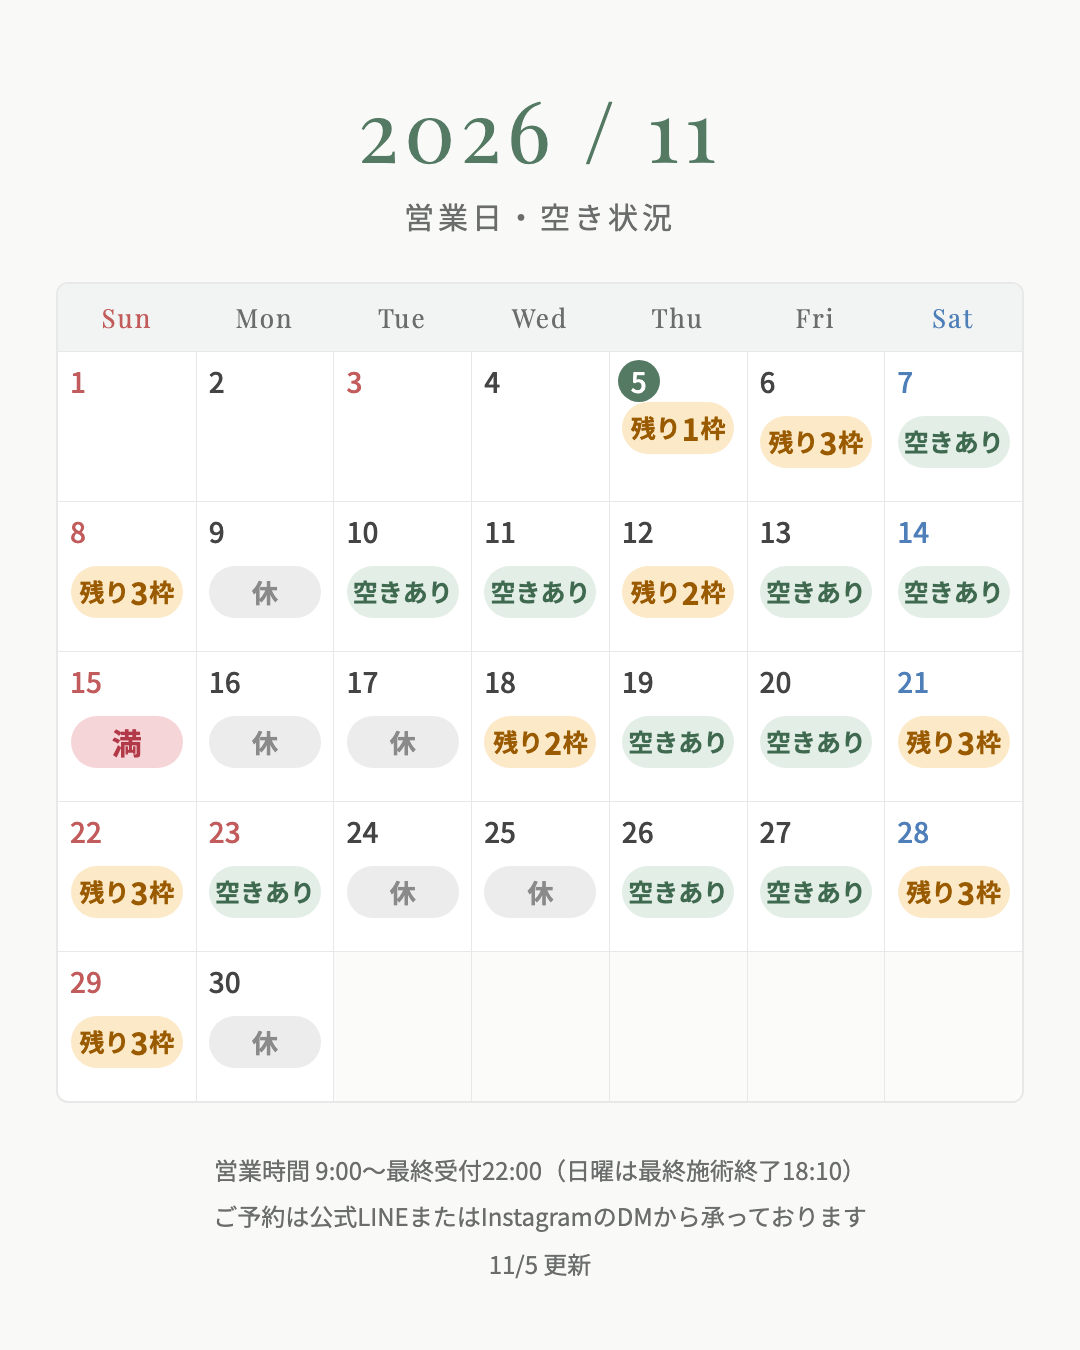
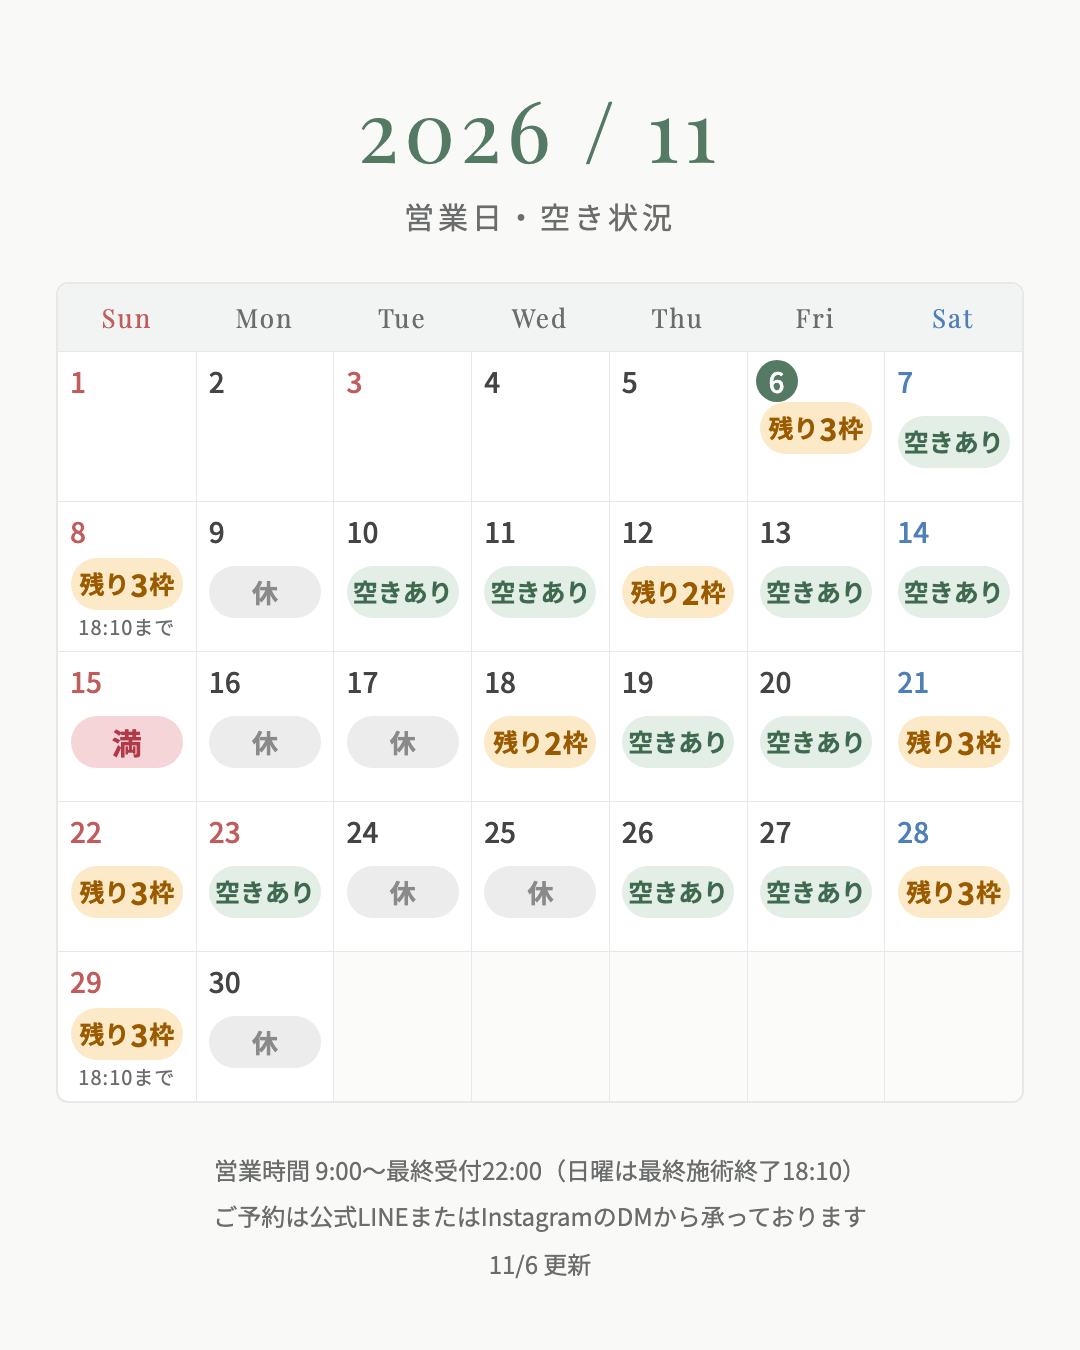
chore: 空き状況カレンダーに日曜(8・29日)の「18:10まで」を追記し更新日を11/6に更新

Changed region(s): [[0.55, 0.2489, 0.825, 0.3733], [0.0611, 0.7467, 0.1833, 0.8089], [0.0611, 0.4044, 0.1833, 0.4667]]

diff --git a/src/calendarInfo.ts b/src/calendarInfo.ts
@@ -4,4 +4,4 @@
  */
 export const CALENDAR_IMAGE = '/images/calendar/current.png';
 /** 画像を更新した日 (YYYY-MM-DD) */
-export const CALENDAR_UPDATED = '2026-11-05';
+export const CALENDAR_UPDATED = '2026-11-06';

diff --git a/scripts/calendar/gen.py b/scripts/calendar/gen.py
@@ -1,6 +1,6 @@
 import json, datetime, calendar, html
 Y, M = 2026, 11
-TODAY = datetime.date(2026, 11, 5)
+TODAY = datetime.date(2026, 11, 6)
 TARGET = 5
 BLOCK = 90  # 70分施術+清掃etc: 次の開始まで90分(3スロット)
 HOLIDAYS = {datetime.date(2026,11,3), datetime.date(2026,11,23)}
@@ -17,7 +17,11 @@ def capacity(slots):
 
 OVERRIDES = {5:('few',1),6:('few',3),8:('few',3),12:('few',2),18:('few',2),21:('few',3),22:('few',3),25:('closed',None),28:('few',3),29:('few',3)}
 
+# セルに添える注記 (日 -> 文言)
+NOTES = {8: '18:10まで', 29: '18:10まで'}
+
 def status(d):
+    if d < TODAY: return ('past', None)
     if d.month == 11 and d.day in OVERRIDES: return OVERRIDES[d.day]
     if d < TODAY: return ('past', None)
     slots = json.load(open(f'data/av_{d.isoformat()}.json'))['slots']
@@ -43,12 +47,14 @@ for w in weeks:
         if d.weekday() == 5: cls.append('sat')
         if d in HOLIDAYS: cls.append('sun')
         if d == TODAY: cls.append('today')
+        if d.day in NOTES: cls.append('hasnote')
         if st == 'open': badge = '<div class="b open">空きあり</div>'
         elif st == 'few': badge = f'<div class="b few">残り<b>{rem}</b>枠</div>'
         elif st == 'full': badge = '<div class="b full">満</div>'
         elif st == 'closed': badge = '<div class="b closed">休</div>'
         else: badge = ''
-        cells.append(f'<div class="{" ".join(cls)}"><div class="d">{d.day}</div>{badge}</div>')
+        note = f'<div class="n">{NOTES[d.day]}</div>' if d.day in NOTES and st != 'past' else ''
+        cells.append(f'<div class="{" ".join(cls)}"><div class="d">{d.day}</div>{badge}{note}</div>')
 
 page = f'''<!doctype html><html lang="ja"><head><meta charset="utf-8">
 <link href="https://fonts.googleapis.com/css2?family=Noto+Sans+JP:wght@400;500;700&family=Playfair+Display:wght@400;500&display=swap" rel="stylesheet">
@@ -68,6 +74,8 @@ h1{{font-family:'Playfair Display',serif;font-weight:400;font-size:84px;color:#5
 .today .d{{display:inline-block;background:#557A64;color:#fff;border-radius:999px;min-width:42px;text-align:center;padding:0 6px;margin-left:4px;float:left}}
 .b{{margin:14px auto 0;font-weight:700;font-size:25px;line-height:1.1;border-radius:999px;height:52px;display:flex;align-items:center;justify-content:center;width:112px;clear:both;white-space:nowrap}}
 .today .b{{margin-top:14px}}
+.hasnote .b{{margin-top:6px}}
+.n{{margin-top:2px;font-size:20px;color:#6A6D6B;letter-spacing:1px}}
 .b.open{{background:#E3EEE7;color:#3F6A50}}
 .b.few{{background:#FCE9C8;color:#9A5B00}}
 .b.few b{{font-size:30px;margin:0 1px}}
